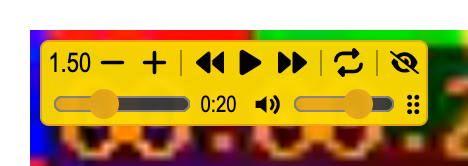
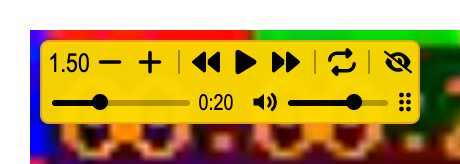
Shrink the panel's slider thumbs, and center the speed on its digits
- Seek bar and volume: a thin track with a small round thumb (40% of the row's height), in the text color, so white when idle and black on hover. The browsers' own thumbs were nearly as tall as the row. Chrome can't style the filled part, so the panel sets `--progress` and the track draws the fill up to the thumb's center.
- The speed is centered on its digits (`text-box: trim-both cap alphabetic` on a span), not on the font's line, whose room above and below differs per font and browser. Chrome 133+ and recent Firefox; older browsers ignore it.
- The row height is rounded to whole, even pixels (`round()`, Chrome 125+, Firefox 118+), so the leftover room splits evenly instead of each browser rounding it its own way. The default panel is about 0.7 px shorter, and resizing moves its height in 2 px steps.

Measured with close-up screenshots of the idle collapsed panel at sizes 8-14 px and 1x and 2x, in Chrome and Firefox. Before, the speed sat up to 2.5 CSS px high in Chrome. Now it's within half a CSS pixel of center, except one size in Chrome at 2x (1 px). No browser test for this: the text's box was centered already, only the digits in it weren't, so a box check passes either way.

Checked: npm run check, npm test (54), npm run test:e2e (36 in Chrome, 36 in Firefox), and the new pictures in docs/.

diff --git a/entrypoints/content/style.css b/entrypoints/content/style.css
@@ -50,7 +50,8 @@ button {
 
 .controller {
   --size: 9px;
-  --height: calc(var(--size) * 2.3);
+  /* Whole, even pixels, so the speed has the same room above and below it (see `.playback-rate`). */
+  --height: round(calc(var(--size) * 2.3), 2px);
   --ease-style: ease-out;
   --gap: calc(0.35 * var(--size));
 
@@ -119,9 +120,17 @@ button {
       }
     }
 
+    /*
+      Centered on its digits, not on the font's line, whose room above and below differs per font and per browser.
+      Trimmed, the text's box is just the digits' height. Without this the speed sat up to 2.5 px off center in Chrome.
+    */
     .playback-rate {
-      font-size: calc(0.65 * var(--height));
+      font-size: round(calc(0.65 * var(--height)), 1px);
       font-variant-numeric: tabular-nums;
+
+      span {
+        text-box: trim-both cap alphabetic;
+      }
 
       &:hover {
         background-color: transparent;
@@ -166,10 +175,59 @@ button {
       padding-left: calc(0.5 * var(--size));
     }
 
+    /*
+      A thin track and a small thumb, both in the text color. The browsers' own thumb is about as tall as the row.
+      Chrome can't style the filled part on its own, so the panel sets `--progress` (0 to 1) and the track draws it.
+      The fill ends at the thumb's center, which moves between half a thumb from each end.
+    */
     input[type="range"] {
-      height: calc(0.5 * var(--height));
-      accent-color: #e9ab17;
+      --thumb: calc(0.4 * var(--height));
+      --track: calc(0.15 * var(--height));
+      --fill: calc(var(--thumb) / 2 + (100% - var(--thumb)) * var(--progress, 0));
+
+      appearance: none;
+      height: var(--height);
+      background: none;
+      color: inherit;
       cursor: pointer;
+
+      &::-webkit-slider-runnable-track {
+        height: var(--track);
+        border-radius: var(--track);
+        background: linear-gradient(
+          to right,
+          currentColor var(--fill),
+          color-mix(in srgb, currentColor 30%, transparent) var(--fill)
+        );
+      }
+
+      &::-moz-range-track {
+        height: var(--track);
+        border-radius: var(--track);
+        background: linear-gradient(
+          to right,
+          currentColor var(--fill),
+          color-mix(in srgb, currentColor 30%, transparent) var(--fill)
+        );
+      }
+
+      &::-webkit-slider-thumb {
+        appearance: none;
+        width: var(--thumb);
+        height: var(--thumb);
+        margin-top: calc((var(--track) - var(--thumb)) / 2);
+        border: none;
+        border-radius: 50%;
+        background-color: currentColor;
+      }
+
+      &::-moz-range-thumb {
+        width: var(--thumb);
+        height: var(--thumb);
+        border: none;
+        border-radius: 50%;
+        background-color: currentColor;
+      }
     }
 
     .seek {

diff --git a/entrypoints/content/panel.tsx b/entrypoints/content/panel.tsx
@@ -96,6 +96,9 @@ export function Panel(props: Props) {
   onCleanup(app.shortcuts.registerVideo(video))
   onCleanup(trackFrameDuration(video))
 
+  // The seek bar's end. A live stream has no duration, only the part that can be seeked.
+  const seekEnd = () => (Number.isFinite(state.duration) ? state.duration : state.seekableEnd)
+
   const startDrag = (event: PointerEvent & { currentTarget: HTMLDivElement }) => {
     // A copy: the store updates `dragOffset` in place.
     const start = { ...state.dragOffset }
@@ -130,7 +133,7 @@ export function Panel(props: Props) {
               }}
               on:wheel={onWheelStep(WHEEL_RATE_INTERVAL_MS, (step) => app.adjustSpeed(video, step * SPEED_STEP))}
             >
-              {formatPlaybackRate(state.playbackRate)}
+              <span>{formatPlaybackRate(state.playbackRate)}</span>
             </button>
             <Show when={state.isExpanded}>
               <ControlButton title="Slow down (Z)" onClick={() => app.adjustSpeed(video, -SPEED_STEP)}>
@@ -170,9 +173,10 @@ export function Panel(props: Props) {
                 type="range"
                 title="Seek (scroll to rewind or fast forward 5 seconds)"
                 min={0}
-                max={Number.isFinite(state.duration) ? state.duration : state.seekableEnd}
+                max={seekEnd()}
                 step="any"
                 value={state.currentTime}
+                style={{ "--progress": seekEnd() > 0 ? Math.min(state.currentTime / seekEnd(), 1) : 0 }}
                 on:input={(event) => {
                   video.currentTime = event.currentTarget.valueAsNumber
                 }}
@@ -214,6 +218,7 @@ export function Panel(props: Props) {
                 max={1}
                 step={0.05}
                 value={state.isMuted ? 0 : state.volume}
+                style={{ "--progress": state.isMuted ? 0 : state.volume }}
                 on:input={(event) => {
                   video.volume = event.currentTarget.valueAsNumber
                   video.muted = false
